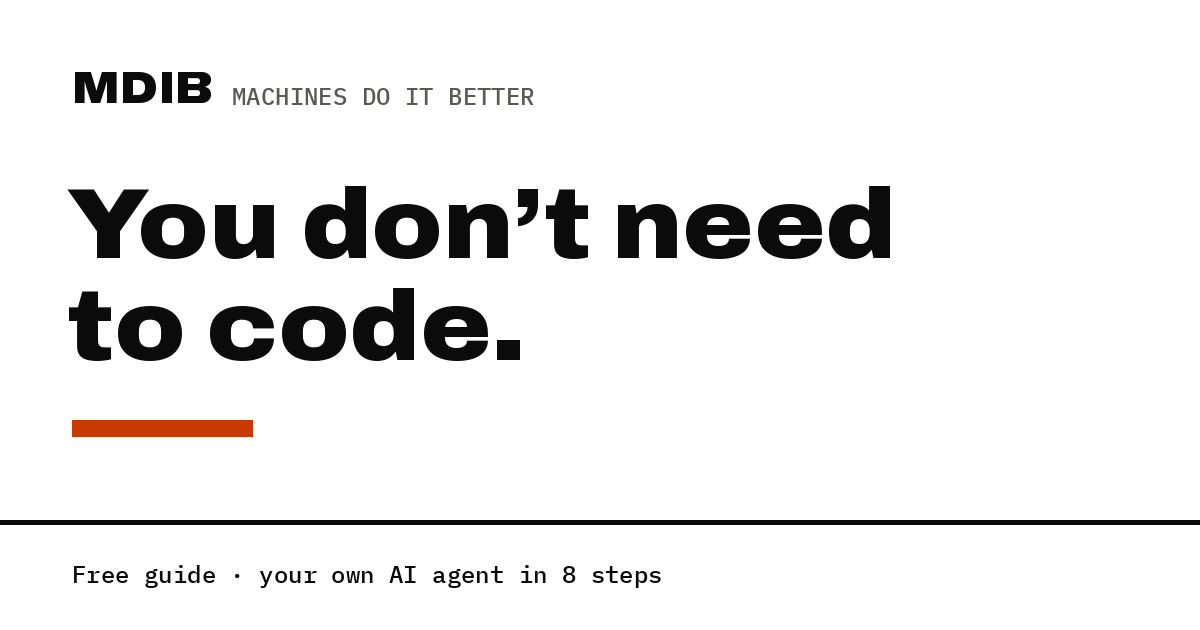
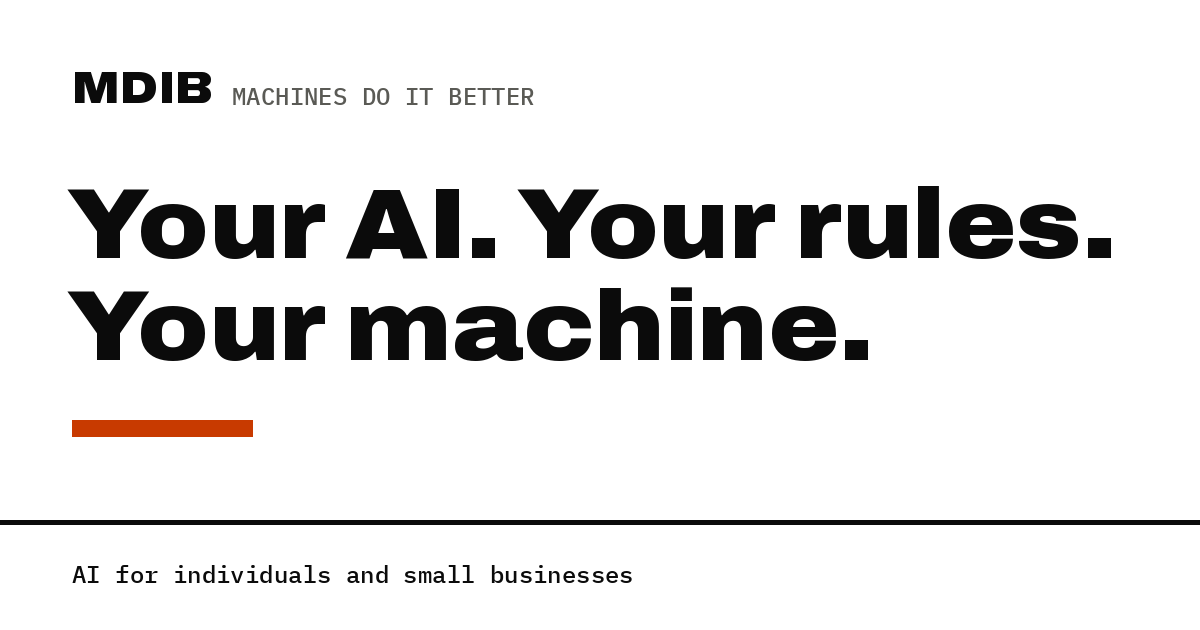
llms.txt, OG cards with the new headline, AGENTS and README for the main site

Changed region(s): [[0.2158, 0.2714, 0.925, 0.4222], [0.0617, 0.4524, 0.74, 0.573], [0.0617, 0.9048, 0.555, 0.9349]]

diff --git a/src/scripts/newsletter-prompt.ts b/src/scripts/newsletter-prompt.ts
@@ -2,8 +2,8 @@
 //   absent        → first page view: we store "pending:<time of first view>"
 //   pending:<ms>  → opens 25 s after the first view or at 50 % scroll of a page, whichever comes first
 //   done          → shown, dismissed, or not wanted (arrived from the newsletter, or not a first visit): never again
-// The layout leaves the dialog out of the legal pages, the newsletter page and the 404, so this never runs there,
-// but a visit to those pages still starts (and counts towards) the 25 s.
+// The layout leaves the dialog out of the legal pages, the newsletter page and the 404, so this never runs there:
+// the 25 s start on the first page that has the dialog.
 export const KEY = 'mdib-newsletter-prompt';
 const DELAY_MS = 25_000;
 const FIRST_VISIT_MS = 30 * 60_000; // ponytail: a "pending" older than 30 min means a returning visitor; no session tracking.

diff --git a/scripts/build-og.py b/scripts/build-og.py
@@ -2,7 +2,7 @@
 """Generates public/og-en.png and public/og-es.png, the link-preview cards, with the site's own fonts and tokens.
 
 Needs Pillow and node_modules; deliberately outside the npm build because the card only
-changes when the headline, the palette or the step count does (the 8 is typed here: keep it in step with src/guide).
+changes when the home headline (src/i18n.ts, home.h1) or the palette does.
 
     python3 scripts/build-og.py
 """
@@ -23,8 +23,8 @@ def archivo(size, weight, width):
 
 mono = ImageFont.truetype(str(FS / '@fontsource/ibm-plex-mono/files/ibm-plex-mono-latin-500-normal.woff2'), 24)
 CARDS = {
-    'en': (('You don’t need', 'to code.'), 'Free guide · your own AI agent in 8 steps'),
-    'es': (('No necesitas', 'saber programar.'), 'Guía gratuita · tu propio agente de IA en 8 pasos'),
+    'en': (('Your AI. Your rules.', 'Your machine.'), 'AI for individuals and small businesses'),
+    'es': (('Tu IA. Tus reglas.', 'Tu máquina.'), 'IA para personas y pequeños negocios'),
 }
 for lang, (lines, foot) in CARDS.items():
     img = Image.new('RGB', (W, H), PAPER)

diff --git a/AGENTS.md b/AGENTS.md
@@ -1,23 +1,22 @@
 # machines-do-it-better
-Machines Do It Better (MDIB): a free, self-serve guide to setting up your own AI agent, on the web, as PDF and as Markdown "for your agent". Spanish (Spain) at `/`, English at `/en/`. Live: https://mdib.technoir.cloud
+Machines Do It Better (MDIB): the main site (ethos, manifesto, product family, newsletter) plus the free own-agent guide. Spanish (Spain) at `/`, English at `/en/`. Live: https://mdib.technoir.cloud
 
 ## Commands
-- Check (before every commit and deploy): `npm run check && npm run build` (tests the guide's facts and PDF stamp; build scans the built HTML and .md)
+- Check (before every commit and deploy): `npm run check && npm run build` (tests the catalog, selling guard, guide facts and PDF stamp; build scans the built HTML and .md)
 - Dev: `npm run dev`
 - Deploy: `./scripts/deploy.sh`
 - PDF (after any edit to `src/guide/`, needs local Chrome; the check fails until you do): `npm run pdf`
-- OG card (after changing headline, palette or step count): `python3 scripts/build-og.py`
+- OG card (after changing the home headline or palette): `python3 scripts/build-og.py`
 
 ## Non-negotiables
-1. The free guide is the only product (Javier, 2026-11-13). No calls, sessions, diagnosis or anything that needs his time; `scripts/check-content.mjs` blocks those words.
-2. The one call to action is the Beehiiv newsletter as a plain outbound link (`NEWSLETTER` in `src/site.ts`): no embed, script or form. Downloads stay ungated.
-3. Upsells exist only as the unpriced "what comes next" ladder (the kit; a fixed-scope written setup): no prices, checkout or dates, each pointing to the newsletter.
-4. The guide lives once per language in `src/guide/{es,en}.mjs`; the page, the .md and the PDF are generated from it. Spanish is the original; English is a faithful version. Every price and requirement cites an official source checked on the date in the file; what could not be checked says "sin verificar"/"unverified".
-5. Tools are named where the guide teaches them; above the fold the page sells the outcome, not the stack. No claim of affiliation with Nous Research or any tool.
-6. Site chrome copy lives in `src/i18n.ts`, in both languages; never add text to one language only.
-7. No analytics, cookies or third-party requests (fonts and the shader are bundled): that is what lets the site skip a cookie banner. Adding any means rewriting `/legal` first.
-8. No invented proof: no clients, testimonials or metrics. The only example is the session labelled "Ejemplo ilustrativo, escrito a mano".
-9. `EMAIL`/`ADDRESS` in `src/site.ts` stay null until Javier sets business ones; nothing may build a `mailto:` from them.
-10. Old `/es/...` URLs 301 to `/...` in `nginx.conf`; keep those redirects.
-11. Publishing changes needs Javier's explicit yes.
-12. The business repo `mdib-ops` still describes the Founder Pilot: Javier decided the new offer on 2026-11-13 and will update it there. Until then, this file wins for the site.
+1. Statuses live only in `src/catalog.mjs` (Disponible / En desarrollo / Previsto); badges read it and the build fails if a built badge disagrees. When evidence is unclear, the more modest status wins; "Previsto" is written as intent ("servirá para"), never as working.
+2. Selling is Stripe Payment Links only: `stripeLink` per product, a plain link in a new tab, no Stripe script or embed. With `null` the button is disabled and no price shows. All are null today.
+3. **Before the first `stripeLink`:** set a business `EMAIL` and `ADDRESS` in `src/site.ts` and have `/legal` reviewed for distance selling (terms, refunds for digital goods, VAT). `check-content.mjs` fails the build otherwise. Until then both stay null and nothing builds a `mailto:` (no personal email, phone or address anywhere).
+4. No calls, sessions, diagnosis or anything that needs Javier's time; `scripts/check-content.mjs` blocks those words. No promise of support, results or security beyond `mdib-ops/operations/support-boundaries.md`.
+5. No analytics, cookies or third-party requests on load (fonts and shader are bundled): that is what lets the site skip a cookie banner. The newsletter is a plain link to Beehiiv (its subscribe page does not accept a prefilled email, checked 2026-11-14). Adding any request means rewriting `/legal` first.
+6. The pop-up uses one `localStorage` key, `mdib-newsletter-prompt`, named on `/legal`; never on legal or `/newsletter/`, never for visitors from the newsletter; no pop-up without JavaScript.
+7. All copy lives in `src/i18n.ts`, both languages; URLs in `src/routes.mjs`. Layer names (Atlas, Forja, Guardia, Puente) stay Spanish in both.
+8. The guide lives once per language in `src/guide/{es,en}.mjs`; page, .md and PDF are generated from it. Every price and requirement cites a source checked on the date in the file.
+9. No invented proof: no clients, testimonials, metrics or partnerships; the site says plainly there are no paying clients. No claim of affiliation with Nous Research or any vendor; never mention the site that inspired the layout.
+10. Old `/es/...` URLs 301 to `/...` in `nginx.conf`; keep them and the `expires -1` HTML rule.
+11. Publishing changes needs Javier's explicit yes. Never modify `mdib-ops` from here.

diff --git a/README.md b/README.md
@@ -1,13 +1,20 @@
 # Machines Do It Better
 
-**MDIB** is my main project: a free, written guide to setting up your own AI agent, on a machine you control,
-with your account, your data and your choice of model, doing one real task for you. It is delivered three ways:
-the web page, a PDF, and a Markdown file "for your agent" that you give to ChatGPT, Claude or any assistant so it
-tutors you through it. The guide is free in exchange for interest: the only call to action is the newsletter.
+**MDIB** is my main project: AI that is yours. Tools and guides so individuals and small businesses can have an AI
+agent of their own, with their account, their data and the model they choose, in the cloud when it makes sense and
+on their own hardware when they want. This repo is its public website:
+
+- **Home**: the ethos in five ideas (digital sovereignty, sovereign AI, agents that fit you, ownership, hybrid cloud + local).
+- **Manifesto** (`/manifiesto/`, `/en/manifesto/`): what I believe and what MDIB will not do.
+- **Products** (`/productos/`, `/en/products/`): four layers, each with an honest status: **Atlas** (your ontology),
+  **Forja** (the kit), **Guardia** (permissions, backups, upkeep) and **Puente** (the hybrid route). What you can take
+  away today is the free guide; nothing is on sale yet.
+- **Free guide** (`/guia/`, `/en/guide/`): "You don't need to code", on the web, as a PDF and as Markdown "for your agent".
+- **Newsletter** (`/newsletter/`): a plain link to Beehiiv, plus a once-only pop-up for first-time visitors.
 
 **Live:** https://mdib.technoir.cloud · **Status:** pre-launch, no paying clients.
 
-Astro (static) + nginx in Docker. Spanish at `/`, English at `/en/`. No analytics, no cookies, self-hosted fonts.
+Astro (static) + nginx in Docker. Spanish at `/`, English at `/en/`. No analytics, no cookies, no third-party requests.
 
 ```bash
 npm install
@@ -17,13 +24,16 @@ npm run pdf                       # re-print the PDFs after editing the guide (n
 ./scripts/deploy.sh               # see DEPLOYMENT.md
 ```
 
-- `src/guide/es.mjs`, `src/guide/en.mjs`: the guide, once per language, with its sources.
-- `src/guide/render.mjs`: facts line (computed from the content), inline HTML, the Markdown "for your agent".
-- `src/pages/guia-agente-propio.md.ts`, `own-agent-guide.md.ts`: the .md downloads, generated at build time.
-- `scripts/build-pdf.mjs`: the PDFs in `public/`, printed by headless Chrome and stamped in `src/guide/pdf-stamp.json`.
-- `src/components/Home.astro`: the page. `src/scripts/`: the paper-dither hero and the illustrative session replay.
-- `src/i18n.ts`: the page chrome in both languages. `src/components/Legal.astro`: provisional legal notice and privacy.
-- `scripts/check-content.mjs`: after the build, fails on placeholders, forbidden promises, the retired offer's words and broken `mailto:`.
+- `src/catalog.mjs`: the status table (layers and products), each with its evidence, and the Stripe Payment Link
+  per product (all `null` today). The selling guard refuses a link while the site has no business email and address.
+- `src/i18n.ts`: every word of the site in both languages. `src/routes.mjs`: the URL of each page per language.
+- `src/components/`: one component per page (`Home`, `Manifesto`, `Products`, `Guide`, `NewsletterPage`, `Legal`)
+  and the small parts (`Badge`, `BuyButton`, `SubscribeLink`, `NewsletterDialog`, `OwnsDiagram`).
+- `src/scripts/newsletter-prompt.ts`: when the pop-up opens (25 s or half a page, once, one `localStorage` key).
+- `src/guide/es.mjs`, `src/guide/en.mjs`: the guide, once per language, with its sources; `render.mjs` builds the
+  facts line, the inline HTML and the Markdown. `scripts/build-pdf.mjs` prints the PDFs into `public/`.
+- `scripts/check-content.mjs`: after the build, fails on placeholders, forbidden promises, the retired offer's words,
+  broken `mailto:`, a badge that disagrees with the catalog, or anything on sale without a business contact.
 - `nginx.conf`: 301s from the old `/es/` paths, HTML revalidation, `.md` served as UTF-8 text.
 
 ## How this was made
